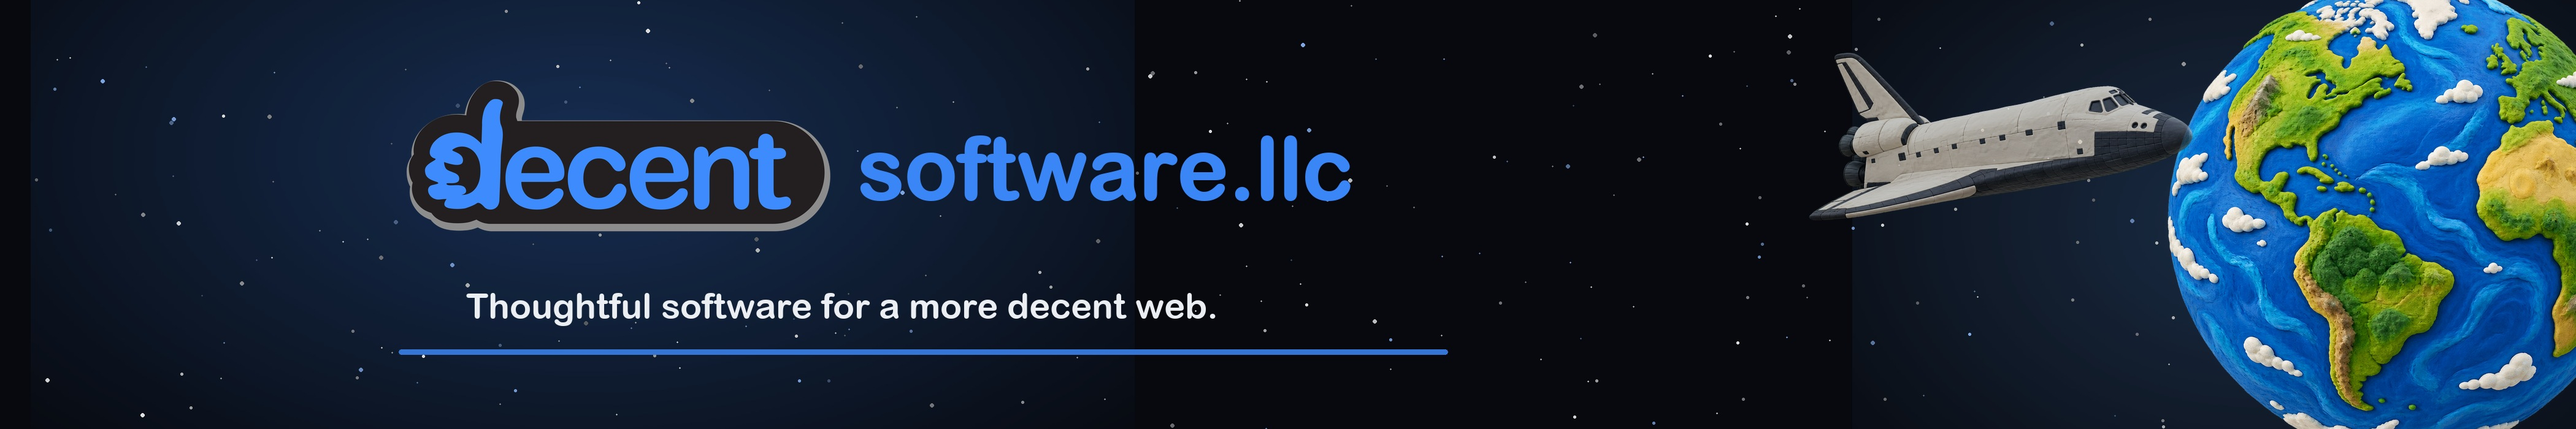
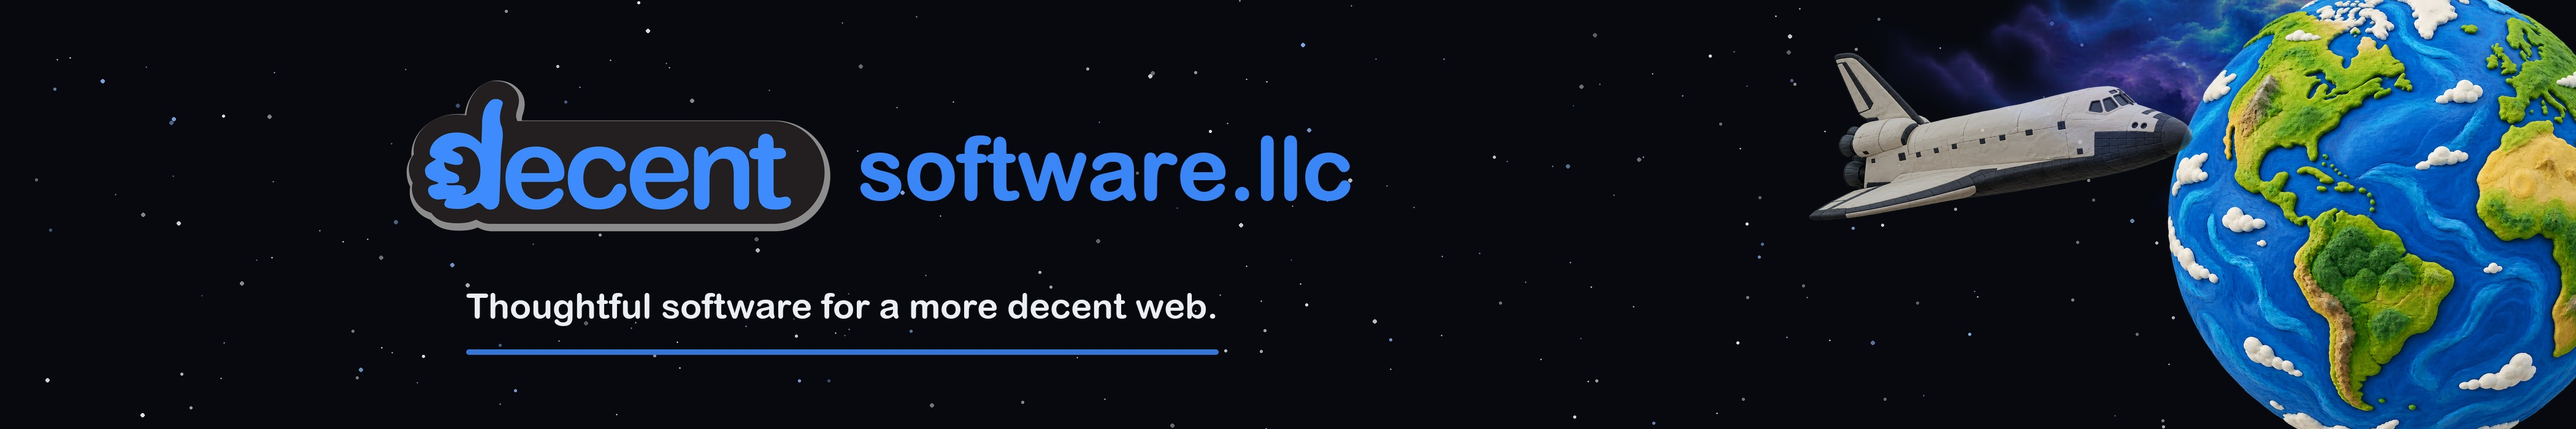
Refine LinkedIn company cover

diff --git a/scripts/generate_linkedin_cover.py b/scripts/generate_linkedin_cover.py
@@ -1,7 +1,7 @@
 from pathlib import Path
 import random
 
-from PIL import Image, ImageDraw, ImageFont, ImageOps
+from PIL import Image, ImageDraw, ImageFont
 
 
 ROOT = Path(__file__).resolve().parents[1]
@@ -19,20 +19,9 @@ def contain(path: Path, max_width: int, max_height: int) -> Image.Image:
     return image
 
 
-def add_glow(canvas: Image.Image, center: tuple[int, int], size: tuple[int, int], color: tuple[int, int, int], opacity: int) -> None:
-    gradient = ImageOps.invert(Image.radial_gradient("L")).resize(size, Image.Resampling.LANCZOS)
-    gradient = gradient.point(lambda value: value * opacity // 255)
-    glow = Image.new("RGBA", size, (*color, 0))
-    glow.putalpha(gradient)
-    canvas.alpha_composite(glow, (center[0] - size[0] // 2, center[1] - size[1] // 2))
-
-
 def main() -> None:
     random.seed(2026)
     canvas = Image.new("RGBA", (WIDTH, HEIGHT), (*BACKGROUND, 255))
-
-    add_glow(canvas, (950, 250), (1800, 1000), BLUE, 76)
-    add_glow(canvas, (3670, 360), (1300, 950), (91, 164, 255), 58)
 
     draw = ImageDraw.Draw(canvas)
     for _ in range(280):
@@ -42,6 +31,10 @@ def main() -> None:
         alpha = random.randrange(85, 225)
         color = (255, 255, 255, alpha) if random.random() > 0.28 else (143, 188, 255, alpha)
         draw.ellipse((x - radius, y - radius, x + radius, y + radius), fill=color)
+
+    nebula = contain(ASSETS / "linkedin-nebula.png", 1650, 760)
+    nebula.putalpha(nebula.getchannel("A").point(lambda value: value * 150 // 255))
+    canvas.alpha_composite(nebula, (WIDTH - nebula.width - 130, -220))
 
     earth = contain(ASSETS / "clay-world.png", 900, 900)
     canvas.alpha_composite(earth, (WIDTH - 730, -95))
@@ -65,9 +58,12 @@ def main() -> None:
     draw.text((title_x, title_y), "software.llc", font=title_font, fill=(*BLUE, 255), stroke_width=1)
 
     tagline = "Thoughtful software for a more decent web."
-    draw.text((760, 465), tagline, font=tagline_font, fill=(244, 247, 251, 245))
+    tagline_x = 760
+    tagline_y = 465
+    draw.text((tagline_x, tagline_y), tagline, font=tagline_font, fill=(244, 247, 251, 245))
 
-    draw.rounded_rectangle((650, 570, 2360, 578), radius=4, fill=(*BLUE, 220))
+    tagline_box = draw.textbbox((tagline_x, tagline_y), tagline, font=tagline_font)
+    draw.rounded_rectangle((tagline_x, 570, tagline_box[2], 578), radius=4, fill=(*BLUE, 220))
 
     rgb = Image.new("RGB", canvas.size, BACKGROUND)
     rgb.paste(canvas, mask=canvas.getchannel("A"))
